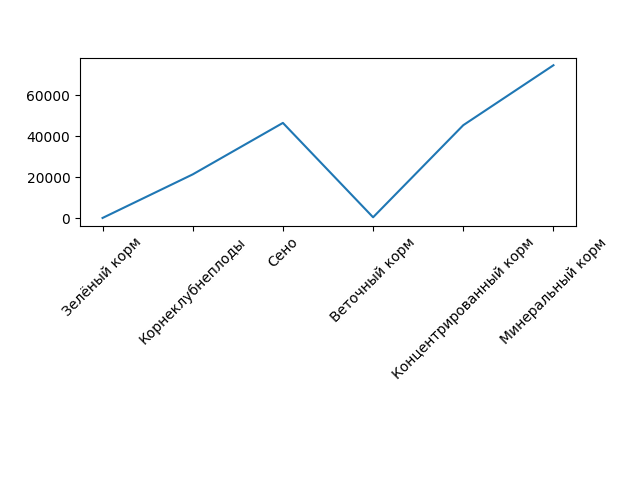
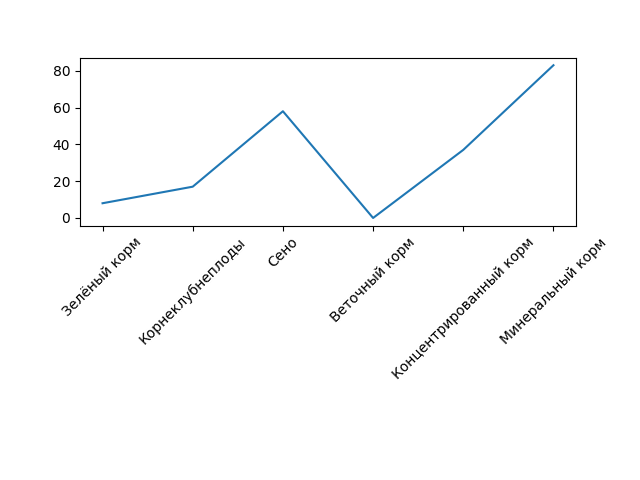
Исправлена ошибка отображения графика

diff --git a/FarmCalculator/routes.py b/FarmCalculator/routes.py
@@ -1,10 +1,10 @@
 # import os
 # import datetime
-import io
+from io import BytesIO
 from PIL import Image
 from matplotlib.backends.backend_agg import FigureCanvasAgg as FigureCanvas
 from matplotlib.figure import Figure
-from flask import render_template, url_for, redirect, flash, request, Response
+from flask import render_template, url_for, redirect, flash, request, send_file
 from flask_login import login_user, current_user, logout_user, login_required
 from FarmCalculator import app, bcrypt, db
 from FarmCalculator.models import User, Feed, CurrentValues, Movement
@@ -13,16 +13,6 @@ from FarmCalculator.forms import RegistrationForm, LoginForm, CurrentValuesForm,
 show_diagrams = False
 ALLOWED_EXTENSIONS = set(['pdf'])
 
-
-# Creating dict from db data
-# def show_groups():
-#     groups = [item.group_number for item in Group.query.all()]
-#     files = [item.file for item in Group.query.all()]
-#     print(groups)
-#     print(files)
-#     a = {item.group_number: item.file for item in Group.query.all()}
-#     print(a)
-#     return a
 
 @app.route('/', methods=['GET', 'POST'])
 def front_page():
@@ -175,7 +165,7 @@ def create_figure():
     fig = Figure()
     axis = fig.add_subplot(2, 1, 1)
     feed = Feed.query.all()
-    ys = [x.amount for x in feed]
+    ys = [x.stock for x in feed]
     xs = [x.name for x in feed]
     axis.tick_params(axis='x', rotation=45)
     axis.plot(xs, ys)
@@ -193,7 +183,11 @@ def create_figure():
         else:
             newData.append(item)
 
+    # img.putdata(newData)
+    # img_io = BytesIO()
+    # img.save(img_io, 'PNG')
+    # img_io.seek(0)
+    # return send_file(img_io, mimetype='image/png')
     img.putdata(newData)
     img.save('FarmCalculator/static/graph.png', 'PNG')
-    print("Successful")
-    return fig
+    # return img

diff --git a/FarmCalculator/__init__.py b/FarmCalculator/__init__.py
@@ -12,6 +12,8 @@ app = Flask(__name__)
 app.config['SECRET_KEY'] = 'f106a85651d73990e22af513b9dbfa24'
 app.config['SQLALCHEMY_DATABASE_URI'] = 'sqlite:///site.db'
 app.config['SQLALCHEMY_TRACK_MODIFICATIONS'] = False
+# app.config['SEND_FILE_MAX_AGE_DEFAULT'] = 0
+app.config['TEMPLATES_AUTO_RELOAD'] = True
 
 db = SQLAlchemy(app)
 migrate = Migrate(app, db)
